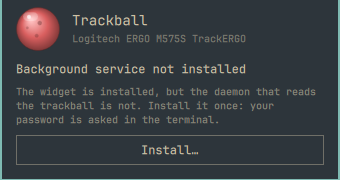
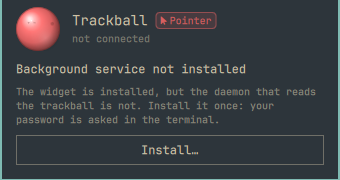
Recover when device enumeration comes back empty
A rare state left the daemon holding an open event node while scan_pointers
returned no devices, and the widget stayed on "no pointing device" until a
manual rescan. Watch for that inconsistent pair and ask for a rescan, which
closes and re-opens the device and clears it.

diff --git a/daemon/scrollmoded.py b/daemon/scrollmoded.py
@@ -605,6 +605,7 @@ class Daemon:
         self.active_id = ""
         self.last_status = ""
         self.last_scan = 0.0
+        self.empty_scans = 0
         self.rescan_requested = False
 
         self.sel = selectors.DefaultSelector()
@@ -677,6 +678,17 @@ class Daemon:
 
         excluded = [str(item).lower() for item in self.cfg["device"].get("exclude") or []]
         devices, hidden = scan_pointers(excluded)
+        # An empty list while a device is open is inconsistent: the daemon holds
+        # an event node, but the enumeration skipped everything. A rescan closes
+        # and re-opens the device, which clears the state.
+        if not devices and self.dev is not None:
+            self.empty_scans += 1
+            if self.empty_scans >= 2:
+                self.empty_scans = 0
+                self.rescan_requested = True
+                log("device scan came back empty, rescanning")
+        else:
+            self.empty_scans = 0
         listed = []
         active_name = ""
         for device in devices:

diff --git a/CHANGELOG.md b/CHANGELOG.md
@@ -32,6 +32,12 @@ All notable changes to this project are documented here. The format follows
   stop. Off by default, and slow movement never triggers it.
 - Panel toggles for inertia and for the sniper button.
 
+### Fixed
+
+- The daemon now forces a rescan when device enumeration unexpectedly comes back
+  empty while a device is open, instead of leaving the widget on "no pointing
+  device" until the service is restarted.
+
 ### Changed
 
 - Left click on the bar widget opens (or closes) the settings panel; right click
